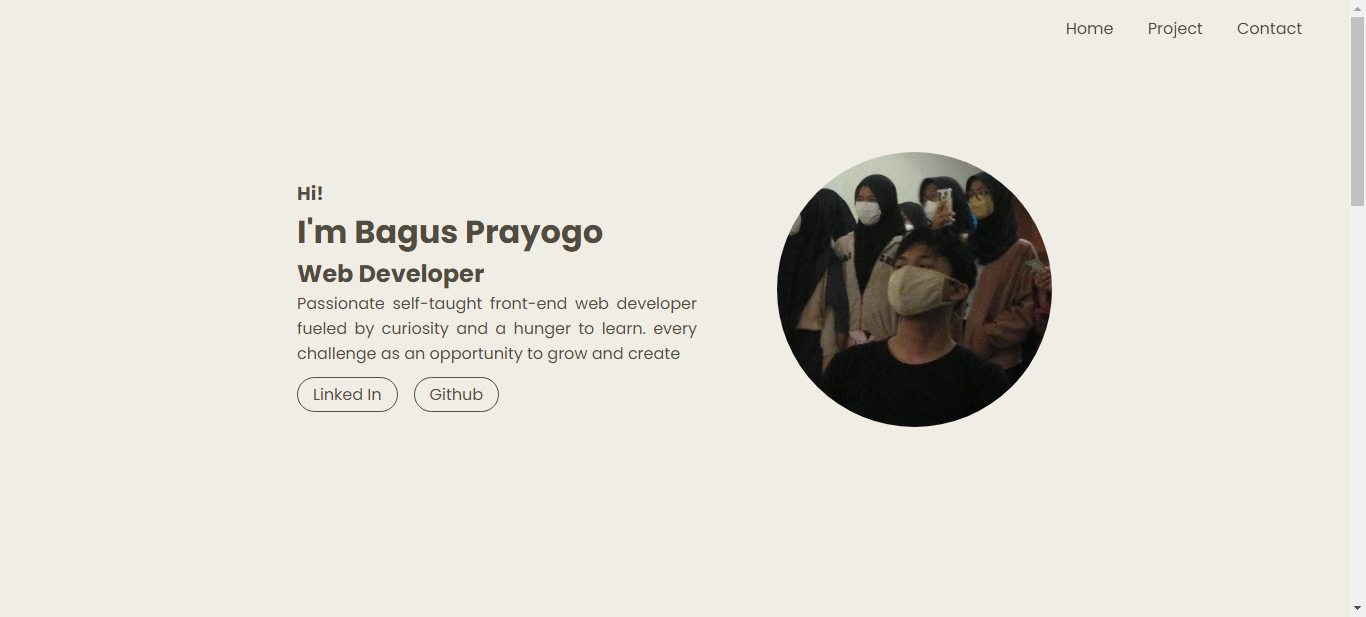
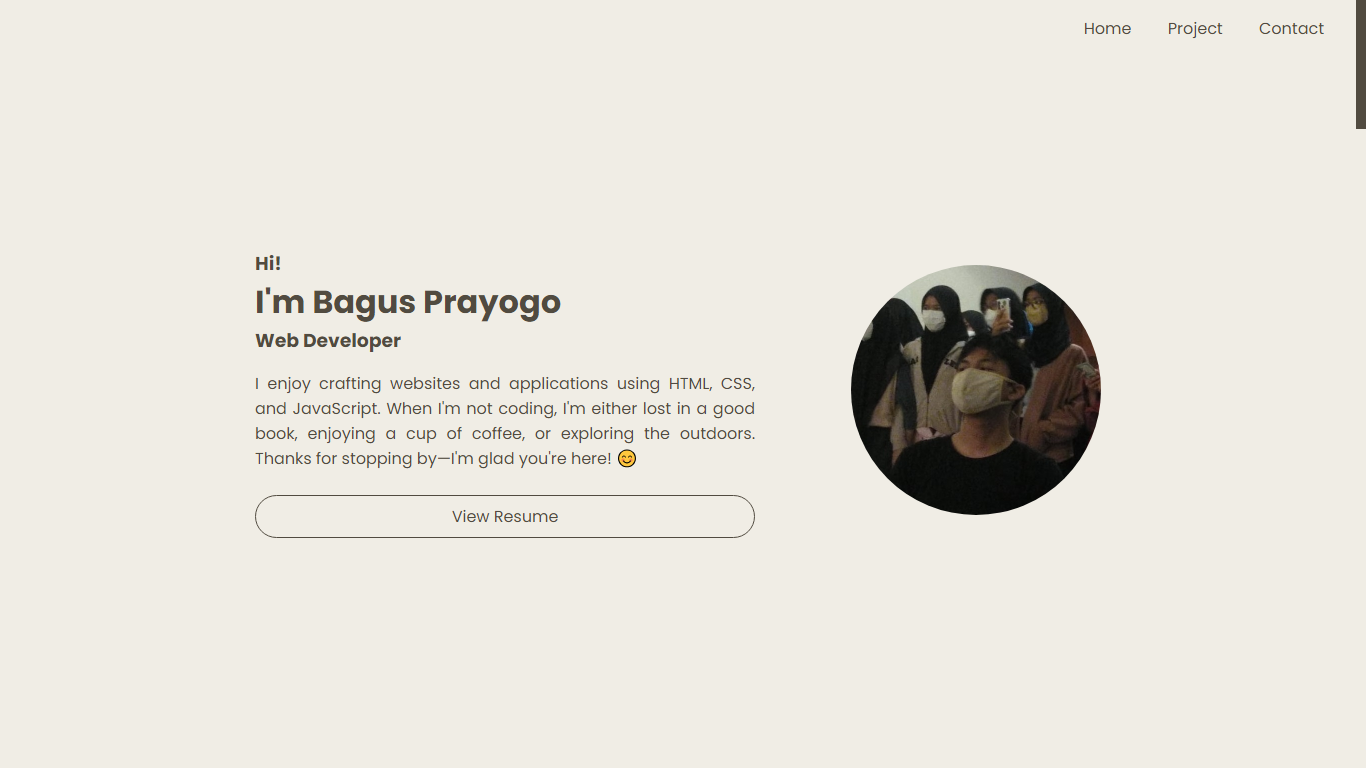
Add files via upload

Changed region(s): [[0.1845, 0.2464, 0.8302, 0.7083], [0.7687, 0.0, 1.0, 0.3387]]

diff --git a/index.html b/index.html
@@ -28,16 +28,16 @@
 <!-- welcome-section -->
 
     <div class="container" id="welcome-section">
-            <div class="welcome-txt">
+            <div class="welcome-left">
                 <h3>Hi!</h3>
                 <h1>I'm Bagus Prayogo</h1>
                 <h3>Web Developer</h3>
                 <p>I enjoy crafting websites and applications using HTML, CSS, and
                 JavaScript. When I'm not coding, I'm either lost in a good book, enjoying a cup of coffee, or exploring the outdoors.
                 Thanks for stopping by—I'm glad you're here! 😊</p>
-                <a href="public/CV.pdf" download target="_blank">View Resume</a>
+                <a href="public/profile.jpg" download target="_blank">View Resume</a>
             </div>
-            <div class="welcome-img">
+            <div class="welcome-right">
                 <img src="public/profile.jpg" alt="profile photo">
             </div>
     </div>
@@ -54,38 +54,34 @@
                 </div>
                 <div class="project-txt">
                     <h2>Portfolio website</h2>
-                    <p>Cillum voluptate tempor cillum culpa cupidatat labore voluptate ullamco voluptate culpa sunt nulla non. Ad cupidatat
-                    dolore quis amet pariatur consectetur ullamco. Officia quis id velit duis cupidatat sunt deserunt do aliquip nulla
-                    laboris.</p>
+                    <p>My first project is a personal portfolio website where I showcase my skills, projects, and experiences. It's a clean
+                    and user-friendly platform that highlights my work and provides visitors with an overview of who I am and what I can do.
+                    Through this website, I aim to establish my online presence and connect with potential employers or collaborators.</p>
                     <a href="https://portfolio-experimental.vercel.app/">View</a>
                 </div>
             </div>
-   
             <div class="project-tile right-left">
-                <div class="project-txt">
-                    <h2>Portfolio website</h2>
-                    <p>Cillum voluptate tempor cillum culpa cupidatat labore voluptate ullamco voluptate culpa sunt nulla non. Ad
-                        cupidatat
-                        dolore quis amet pariatur consectetur ullamco. Officia quis id velit duis cupidatat sunt deserunt do aliquip
-                        nulla
-                        laboris.</p>
-                    <a href="https://portfolio-experimental.vercel.app/">View</a>
-                </div>
                 <div class="project-img">
                     <img src="public/project1.png" alt="">
                 </div>
+                <div class="project-txt">
+                    <h2>Portfolio website</h2>
+                    <p>My first project is a personal portfolio website where I showcase my skills, projects, and experiences. It's a clean
+                    and user-friendly platform that highlights my work and provides visitors with an overview of who I am and what I can do.
+                    Through this website, I aim to establish my online presence and connect with potential employers or collaborators.</p>
+                    <a href="https://portfolio-experimental.vercel.app/">View</a>
+                </div>
             </div>
-     
             <div class="project-tile left-right">
                 <div class="project-img">
                     <img src="public/project1.png" alt="">
                 </div>
                 <div class="project-txt">
                     <h2>Portfolio website</h2>
-                    <p>Cillum voluptate tempor cillum culpa cupidatat labore voluptate ullamco voluptate culpa sunt nulla non. Ad cupidatat
-                    dolore quis amet pariatur consectetur ullamco. Officia quis id velit duis cupidatat sunt deserunt do aliquip nulla
-                    laboris.</p>
-                <a href="https://portfolio-experimental.vercel.app/">View</a>
+                    <p>My first project is a personal portfolio website where I showcase my skills, projects, and experiences. It's a clean
+                    and user-friendly platform that highlights my work and provides visitors with an overview of who I am and what I can do.
+                    Through this website, I aim to establish my online presence and connect with potential employers or collaborators.</p>
+                    <a href="https://portfolio-experimental.vercel.app/">View</a>
                 </div>
             </div>
     </div>
@@ -110,7 +106,7 @@
             </svg></a>
 
         <div class="profile-link-container">
-            <a href="https://github.com/xrtexa/" class="profile-link"><svg xmlns="http://www.w3.org/2000/svg" viewBox="0 0 24 24" fill="currentColor">
+            <a href="" class="profile-link"><svg xmlns="http://www.w3.org/2000/svg" viewBox="0 0 24 24" fill="currentColor">
                 <path
                     d="M12.001 2C6.47598 2 2.00098 6.475 2.00098 12C2.00098 16.425 4.86348 20.1625 8.83848 21.4875C9.33848 21.575 9.52598 21.275 9.52598 21.0125C9.52598 20.775 9.51348 19.9875 9.51348 19.15C7.00098 19.6125 6.35098 18.5375 6.15098 17.975C6.03848 17.6875 5.55098 16.8 5.12598 16.5625C4.77598 16.375 4.27598 15.9125 5.11348 15.9C5.90098 15.8875 6.46348 16.625 6.65098 16.925C7.55098 18.4375 8.98848 18.0125 9.56348 17.75C9.65098 17.1 9.91348 16.6625 10.201 16.4125C7.97598 16.1625 5.65098 15.3 5.65098 11.475C5.65098 10.3875 6.03848 9.4875 6.67598 8.7875C6.57598 8.5375 6.22598 7.5125 6.77598 6.1375C6.77598 6.1375 7.61348 5.875 9.52598 7.1625C10.326 6.9375 11.176 6.825 12.026 6.825C12.876 6.825 13.726 6.9375 14.526 7.1625C16.4385 5.8625 17.276 6.1375 17.276 6.1375C17.826 7.5125 17.476 8.5375 17.376 8.7875C18.0135 9.4875 18.401 10.375 18.401 11.475C18.401 15.3125 16.0635 16.1625 13.8385 16.4125C14.201 16.725 14.5135 17.325 14.5135 18.2625C14.5135 19.6 14.501 20.675 14.501 21.0125C14.501 21.275 14.6885 21.5875 15.1885 21.4875C19.259 20.1133 21.9999 16.2963 22.001 12C22.001 6.475 17.526 2 12.001 2Z">
                 </path>

diff --git a/style.css b/style.css
@@ -7,8 +7,8 @@
     --accent-color: #8C735B;
     --alternative-color: #BAA898;
     --highlight-color: #D9C6AD;
-    --notification-color: #5C5047;
-    --button-padding: 0.5rem 1rem;;
+    --notification-color: #46392f;
+    --button-padding: 7px 10px ;
 }
 
 * {
@@ -23,13 +23,17 @@
     text-decoration: none;
 }
 
-
 ::-webkit-scrollbar {
     width: 10px;
 }
 
 ::-webkit-scrollbar-thumb {
     background-color: var(--text-color);
+
+}
+
+::-webkit-scrollbar-thumb:hover {
+    background-color: var(--notification-color);
 
 }
 
@@ -41,7 +45,7 @@
     width: 100%;
     min-width: 200px;
     min-height: 100vh;
-    padding: 2rem;
+    padding: 6rem 2rem;
 }
 
 /* navbar */
@@ -76,6 +80,7 @@ nav a {
 
 nav svg {
     width: 1.5rem;
+    height: 1.5rem;
     display: none;
 }
 
@@ -92,32 +97,36 @@ nav svg {
     gap: 6rem;
 }
 
-.welcome-txt {
+.welcome-left {
     width: 500px;
 }
 
-.welcome-img img {
-    width: 250px;
-    border-radius: 100%;
-}
-
-.welcome-txt p, .welcome-txt h2 {
+.welcome-left p{
     text-align: justify;
-    margin: 1rem 0;
+    margin: 1rem 0 1.5rem;
 }
 
-.welcome-txt a {
+.welcome-left a {
     color: var(--text-color);
-    padding:  var(--button-padding);
+    padding: var(--button-padding);
+    display: block;
+    width: 100%;
     border: 1px solid var(--text-color);
     border-radius: 50px;
+    text-align: center;
 }
 
-.welcome-txt a:hover {
+.welcome-left a:hover {
     color: var(--background-color);
     background-color: var(--accent-color);
     border: 1px solid var(--accent-color);
 }
+
+.welcome-right img {
+    width: 250px;
+    border-radius: 100%;
+}
+
 
 /* welcome-section */
 
@@ -129,9 +138,6 @@ nav svg {
     text-align: center;
 }
 
-#projects h1 {
-    margin: 3rem 0;
-}
 
 .project-tile {
     display: flex;  
@@ -139,6 +145,14 @@ nav svg {
     align-items: center;
     gap: 5rem;
     margin: 3rem 0;
+}
+
+.left-right {
+    flex-direction: row;  
+}
+
+.right-left {
+    flex-direction: row-reverse;  
 }
 
 .project-img, .project-txt {
@@ -156,11 +170,11 @@ nav svg {
     flex-direction: column;
     justify-content: center;
     align-items: flex-start;
-    gap: 1rem;
 }
 
 .project-txt p {
     text-align: justify;
+    margin: 1rem 0;
 }
 
 .project-txt a {
@@ -222,7 +236,7 @@ nav svg {
 
 footer {
     width: 100%;
-    min-height: 50vh;
+    min-height: 80vh;
     padding: 3rem 0;
     display: flex;
     flex-direction: column;
@@ -236,10 +250,7 @@ footer a {
     background-color: var(--text-color);
     color: var(--background-color);
     text-align: center;
-}
 
-footer i {
-    display: block;
 }
 
 .profile-link-container, .footer-bottom {
@@ -249,17 +260,21 @@ footer i {
     gap: 1rem; 
 }
 
+footer a {
+    padding: 1rem;
+}
+
 footer a:last-of-type {
     text-decoration: underline;
 }
 
 footer a:last-of-type:hover {
-    color: var(--highlight-color);
+    transform: scale(1);
 }
 
 footer svg {
-    width: 2rem;
-    height: 2rem;
+    width: 50px;
+    height: calc(width);
 }
 
 .footer-bottom {
@@ -267,58 +282,57 @@ footer svg {
     width: 100%;
 }
 
-
 /* footer */
+
+/* wide view */
+
+@media (min-width: 900px;) {
+
+
+* p {
+        font-size: 2rem;
+    }
+
+}
+
+/* wide view */
 
 /* tablet view */
 
-
-@media (max-width: 860px) {
-
-    .container:first-of-type {
-        padding: 6rem 2rem;
-    }
+@media (max-width: 810px) {
     
-    .nav-link {
-        display: none;
-    }
-
     nav svg {
         display: block;
     }
 
+    .nav-link {
+        display: none;
+    }
+
     #welcome-section {
         gap: 3rem;
+        flex-direction: column-reverse;
     }
 
-    .welcome-txt h1 {
+    .welcome-left h1 {
         font-size: 1.8rem;
-    
     }
 
-    .welcome-img {
+    .welcome-right {
         display: flex;
         justify-content: center;
         align-items: center;
     }
 
-
-    .welcome-img, .welcome-txt, 
+    .welcome-img, .welcome-left, 
     .project-img, .project-txt, .contact-wrapper {
             width: 100%;
             padding: 0;
         }
 
-    .project-tile  {
+    .project-tile {
         gap: 1rem;
-    }
-
-    .left-right {
-       flex-direction: column; 
-    }
-
-    .right-left, #welcome-section {
-        flex-direction: column-reverse;
+        flex-direction: column;
     }
 }
 
@@ -328,6 +342,10 @@ footer svg {
 
 @media (max-width: 480px)  {
 
+    * p {
+        font-size: 0.8rem;
+    }
 }
 
 /* mobile view */
+
